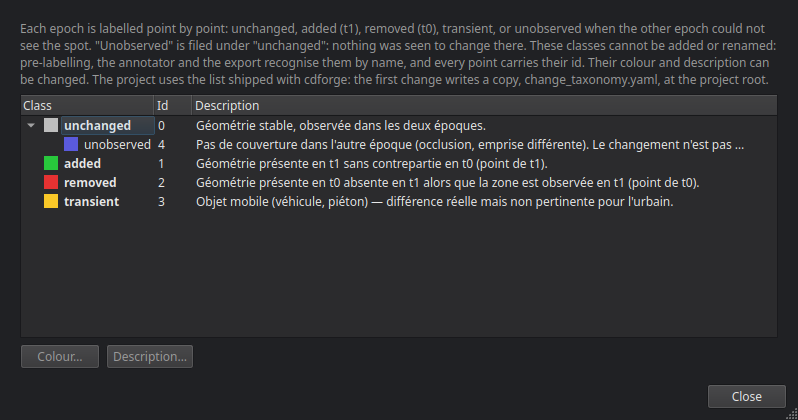
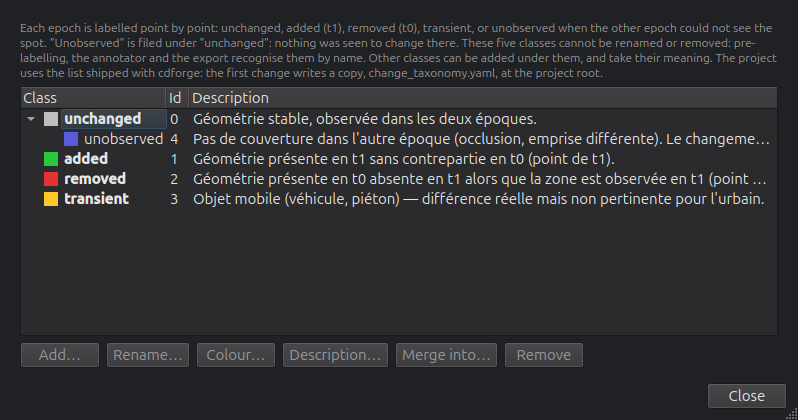
cdforge 0.1.12

Changed region(s): [[0.0, 0.031, 0.9925, 0.4952], [0.0301, 0.8048, 0.7519, 0.8976], [0.9023, 0.9286, 0.9624, 0.9595]]

diff --git a/docs/guide/08_annotation.md b/docs/guide/08_annotation.md
@@ -22,6 +22,8 @@ Chaque modification est enregistrée tuile par tuile au fil de l'édition : un a
 
 Les touches se règlent par projet. **Clic droit** sur une classe ▸ **Choisir une touche…** : un chiffre, Alt+chiffre, une lettre libre ou une touche de fonction, enregistrée dans `annotation_keys.yaml` à la racine du projet ; une touche déjà prise par la fenêtre (A, S, G…) est refusée. Les autres classes reçoivent une touche de l'appli, **1** à **0** puis **Alt+1** à **Alt+0** : d'abord les classes les plus posées à la main dans le projet, puis, à égalité, les classes de base avant leurs sous-classes. Sur un projet neuf, les dix classes de base ont donc les dix chiffres. Une classe garde sa touche tant qu'elle reste parmi les premières, et les touches ne bougent pas pendant qu'on annote : la distribution se refait à l'ouverture. **Touches des classes…** (même menu) les montre toutes, avec le nombre de gestes. Le filtre ne change pas les touches ; **Entrée** y prend la première classe trouvée. Une classe ajoutée ou modifiée dans **Projet ▸ Classes du projet** apparaît dans la liste sans rouvrir l'annotateur.
 
+Les classes s'ajoutent et se modifient sans quitter l'annotateur. **＋ Nouvelle classe…**, sous la liste, en ajoute une au projet, sous une classe de base ou comme nouvelle base : elle est aussitôt choisie, et **A** l'applique. Le **clic droit** sur une classe propose aussi **Nouvelle classe sous « … »**, **Renommer** (l'ancien nom reste compris) et **Couleur**. **Modifier les classes…** ouvre l'éditeur complet du projet, y compris **Fusionner dans…** : la fusion réécrit toutes les tuiles, la tuile ouverte comprise, que l'annotateur relit ensuite (seules les tuiles ouvertes dans un *autre* annotateur doivent être fermées). Sur la couche changement, une nouvelle classe se range sous l'une des cinq classes de changement et en prend le sens : sous *added*, elle ne s'applique qu'en t1.
+
 **Sur la sélection** — appliquer la classe (A), sélectionner toute la classe (S), élargir ou rétrécir (+ / −), propager à l'autre époque (T), changement de l'objet (K), valider auto → manuel (V), incertain (I), non étiqueté (U), écarter des points du jeu de données (Suppr) et les restaurer (Maj+Suppr), vider la sélection (Échap), annuler et rétablir.
 
 Un point **écarté** (bruit, oiseau, point fantôme) n'est pas une classe de plus : il reste sur le disque, hors du jeu de données, et se restaure.

diff --git a/docs/guide/en/08_annotation.md b/docs/guide/en/08_annotation.md
@@ -22,6 +22,8 @@ Every change is saved tile by tile as you edit: a crash only loses the gesture i
 
 Keys are set per project. **Right-click** a class ▸ **Choose a key…**: a digit, Alt+digit, a free letter or a function key, saved in `annotation_keys.yaml` at the project root; a key the window already uses (A, S, G…) is refused. The other classes get a key from the app, **1** to **0** then **Alt+1** to **Alt+0**: first the classes most often set by hand in the project, then, on a tie, base classes before their sub-classes. On a new project the ten base classes therefore have the ten digits. A class keeps its key as long as it stays among the first, and keys do not move while you annotate: the distribution is redone when the annotator opens. **Class keys…** (same menu) shows them all, with the number of uses. The filter does not change the keys; **Enter** in it takes the first class found. A class added or changed in **Project ▸ Project classes** shows up in the list without reopening the annotator.
 
+Classes can be added and edited without leaving the annotator. **＋ New class…**, under the list, adds one to the project, under a base class or as a new base: it is selected at once, and **A** applies it. **Right-clicking** a class also offers **New class under “…”**, **Rename** (the old name is still understood) and **Colour**. **Edit the classes…** opens the project's full class editor, **Merge into…** included: the merge rewrites every tile, the open one too, which the annotator then reloads (only tiles open in *another* annotator must be closed). On the change layer, a new class is filed under one of the five change classes and takes its meaning: under *added*, it applies at t1 only.
+
 **On the selection** — apply the class (A), select the whole class (S), grow or shrink (+ / −), propagate to the other epoch (T), object change (K), validate auto → manual (V), uncertain (I), unlabelled (U), set points aside from the dataset (Del) and restore them (Shift+Del), clear the selection (Esc), undo and redo.
 
 A point **set aside** (noise, bird, ghost point) is not one more class: it stays on disk, out of the dataset, and can be restored.

diff --git a/docs/guide/02_projet.md b/docs/guide/02_projet.md
@@ -80,7 +80,7 @@ Un modèle sémantique peut prédire des classes que la liste n'a pas : c'est à
 
 ![Les classes de changement](img/change_classes.png)
 
-Cinq classes, aux identifiants fixes : *unchanged* (0), *added* (1), *removed* (2), *transient* (3), *unobserved* (4), cette dernière rangée sous *unchanged*. Elles ne s'ajoutent ni ne se renomment : le pré-label, l'annotateur et l'export les reconnaissent par leur nom. Leur **couleur** et leur **description** se modifient ; comme pour les classes sémantiques, la première modification écrit une copie dans le projet, `change_taxonomy.yaml`.
+Cinq classes, aux identifiants fixes : *unchanged* (0), *added* (1), *removed* (2), *transient* (3), *unobserved* (4), cette dernière rangée sous *unchanged*. Ces cinq-là ne se renomment ni ne se retirent : le pré-label, l'annotateur et l'export les reconnaissent par leur nom. On peut en **ajouter** d'autres sous elles, qui en prennent le sens : « new_building » rangée sous *added* ne vaut qu'en t1 et s'exporte comme *added*, sauf si la table d'export la nomme. Une classe ajoutée se renomme (l'ancien nom reste compris), se **fusionne** dans une autre (sur toutes les tuiles ; pas dans une classe qui n'existe qu'à l'autre date) et se **retire** quand plus aucun point ne la porte. La **couleur** et la **description** de toutes se modifient ; comme pour les classes sémantiques, la première modification écrit une copie dans le projet, `change_taxonomy.yaml`.
 
 ## En ligne de commande
 

diff --git a/docs/guide/en/02_project.md b/docs/guide/en/02_project.md
@@ -80,7 +80,7 @@ A semantic model may predict classes the list lacks: they are added or filed whe
 
 ![The change classes](img/change_classes.png)
 
-Five classes, with fixed ids: *unchanged* (0), *added* (1), *removed* (2), *transient* (3), *unobserved* (4), the last filed under *unchanged*. They cannot be added or renamed: pre-labelling, the annotator and the export recognise them by name. Their **colour** and **description** can be changed; as with the semantic classes, the first change writes a copy into the project, `change_taxonomy.yaml`.
+Five classes, with fixed ids: *unchanged* (0), *added* (1), *removed* (2), *transient* (3), *unobserved* (4), the last filed under *unchanged*. These five cannot be renamed or removed: pre-labelling, the annotator and the export recognise them by name. Other classes can be **added** under them, and take their meaning: “new_building” filed under *added* applies at t1 only and exports as *added*, unless the export table names it. An added class can be renamed (the old name is still understood), **merged** into another (across all tiles; not into a class that exists at the other date only) and **removed** once no point carries it. Every class's **colour** and **description** can be changed; as with the semantic classes, the first change writes a copy into the project, `change_taxonomy.yaml`.
 
 ## On the command line
 

diff --git a/THIRD_PARTY.md b/THIRD_PARTY.md
@@ -66,7 +66,7 @@ L'application et le module IA incluent les composants ci-dessous, chacun sous sa
 | shellingham | 1.5.4 | ISC License (ISCL) |
 | shiboken6 | 6.12.0 | LGPL-3.0-only OR GPL-2.0-only OR GPL-3.0-only |
 | threadpoolctl | 3.8.0 | BSD-3-Clause |
-| typer | 0.27.3 | MIT |
+| typer | 0.28.0 | MIT |
 | typing-inspection | 0.4.5 | MIT |
 | typing_extensions | 4.16.0 | PSF-2.0 |
 | tzdata | 2026.6 | Apache-2.0 |
